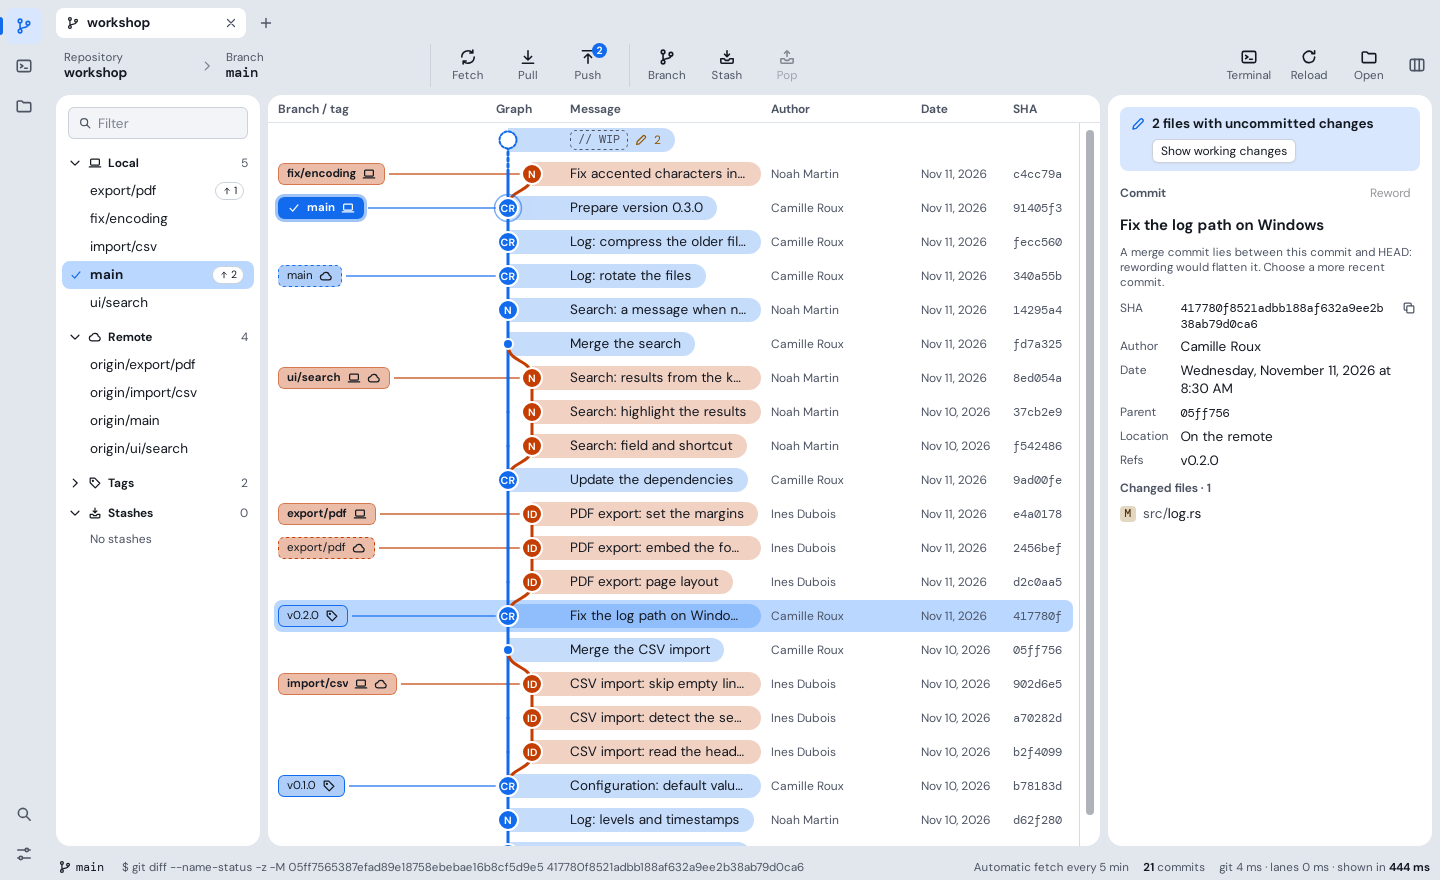
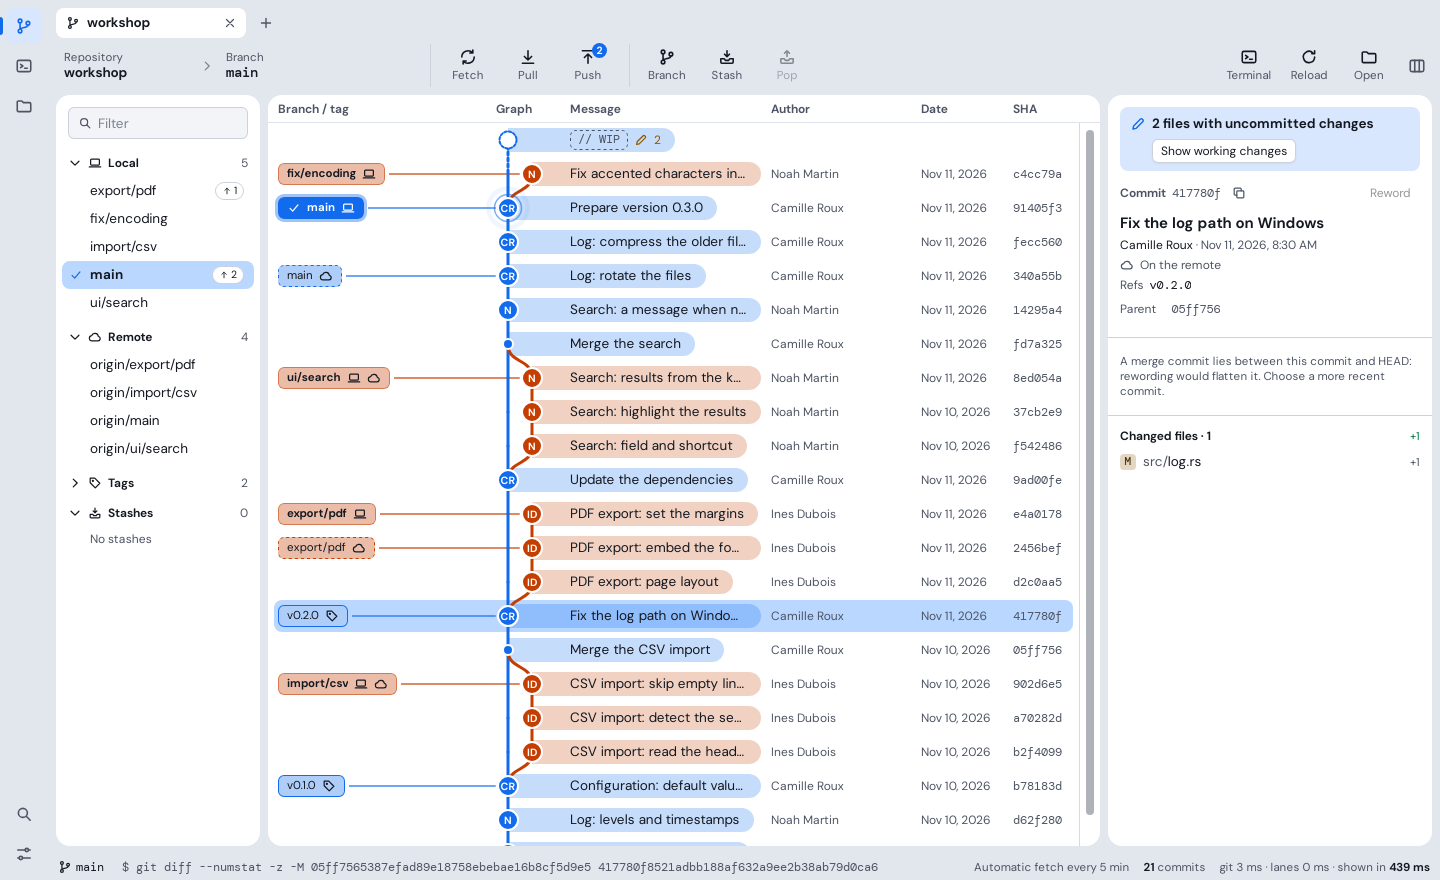
Commit detail: follow the design review
- The refs take a "Refs" label instead of the branch icon, which is
  that of the Git module and of the "Branch" action (7); they are cut
  on the right, the whole list in the tooltip (3.4).
- A line keeps its paragraph as written only when its list sign or
  "#" is followed by a space: a wrapped line that starts with
  "--amend" or "#182" is joined.
- The parents are standard small ghost buttons, and the first file row
  starts 6 px under its heading, on the scale (4.1).
- The guidelines say it: the token table (2.1) and the size table
  (3.2) name the panel, 9.25 follows the new head, and 9.27 defines the
  token of a trailer and describes the loading, the error and a commit
  with no files.
- The two screenshots of the guidelines are taken again (14).

Refs #206

Claude-Session: https://claude.ai/code/session_01Jie7WUbtr1YTCQH6uFfmAd

diff --git a/src/lib/git/CommitPanel.svelte b/src/lib/git/CommitPanel.svelte
@@ -238,7 +238,8 @@
       </p>
     {/if}
     {#if commit.refs.length}
-      <p class="fact"><Icon name="branch" size={14} /> <span class="mono refs">{commit.refs.map((r) => r.name).join(', ')}</span></p>
+      {@const refs = commit.refs.map((r) => r.name).join(', ')}
+      <p class="fact"><span>Refs</span> <span class="mono refs" title={refs}>{refs}</span></p>
     {/if}
     <p class="fact parents">
       {#if commit.parents.length}
@@ -379,22 +380,20 @@
   .fact :global(.icon) {
     flex: none;
   }
+  /* Cut on the right, the whole list in the tooltip (guidelines, 3.4). */
   .refs {
     min-width: 0;
     font-size: var(--fs-code);
-    overflow-wrap: anywhere;
+    overflow: hidden;
+    text-overflow: ellipsis;
+    white-space: nowrap;
   }
   .parents {
     flex-wrap: wrap;
-    gap: 2px;
+    gap: 2px 6px;
   }
-  /* A narrow ghost button: the short SHA stays close to "Parent" and to the next one. */
   .parent {
-    padding: 2px 4px;
     font-size: var(--fs-code);
-  }
-  .parents > span {
-    margin-right: 4px;
   }
   /* The description in --ink: the subject stands out by its size and weight (guidelines, 9.27). */
   .message {
@@ -468,10 +467,11 @@
   .copy:active {
     transform: scale(0.97);
   }
-  /* The rows reach 6 px past the text on each side: their names line up with the heading. */
+  /* The rows reach 6 px past the text on each side: their names line up with the heading. The
+     first row starts 6 px under the heading, the 4 px of the zone and 2 px (guidelines, 9.27). */
   .files {
     width: calc(100% + 12px);
-    margin: -1px -6px 0;
+    margin: 2px -6px 0;
   }
   .muted {
     color: var(--muted);

diff --git a/src/lib/git/message.ts b/src/lib/git/message.ts
@@ -18,8 +18,11 @@ export interface MessageView {
 
 /** A trailer: a token, a colon, a space, then a value. */
 const TRAILER = /^[A-Za-z][A-Za-z0-9-]*: \S/;
-/** A line that keeps its paragraph as written: indented, a list sign, a quote, a heading. */
-const KEEP = /^(\s|[-*•>#]|\d+[.)]\s)/;
+/**
+ * A line that keeps its paragraph as written: indented by a space or a tab, a list sign followed
+ * by a space ("- ", "* ", "• ", "1. ", "1) "), a quote (">"), a heading ("# ").
+ */
+const KEEP = /^([ \t]|[-*•]\s|\d+[.)]\s|>|#+\s)/;
 
 /** Reads the description of a commit: the message without its subject line. */
 export function readMessage(description: string): MessageView {

diff --git a/docs/design-guidelines.md b/docs/design-guidelines.md
@@ -110,7 +110,7 @@ component that hard-codes one.
 | `--panel` | Background of the cards and of the active tab. | `#ffffff` | `#181b21` |
 | `--bg` | Recessed background, inside a card: input fields. | `#f2f4f7` | `#101216` |
 | `--raised` | Background of buttons and of what floats: menus, dialogs, notifications. | `#ffffff` | `#20242c` |
-| `--line` | Border of buttons, fields and floating elements. | `#ccd1da` | `#343a46` |
+| `--line` | Border of buttons, fields and floating elements; separator inside a dialog, and between the zones of the detail panel of a commit (6, 9.27). | `#ccd1da` | `#343a46` |
 | `--line-soft` | Discreet separator inside a card. | `#dfe3ea` | `#262b34` |
 | `--ink` | Body text. | `#141820` | `#eceff4` |
 | `--muted` | Secondary text: captions, metadata, labels. | `#4d5463` | `#a4abb8` |
@@ -346,7 +346,7 @@ not change them: they hold for the four, which `npm run check` checks.
 |---|---|---|
 | `--fs-micro` | 10.5 px | Counters, badges, shortcut keys. |
 | `--fs-small` | 11.5 px | Captions, toolbar labels, status bar, graph labels, metadata. |
-| `--fs-label` | 12 px | Field labels, column headers, section titles, secondary columns of a list (author, date). |
+| `--fs-label` | 12 px | Field labels, column headers, section titles, secondary columns of a list (author, date), the facts of a commit in its detail panel (9.27). |
 | `--fs-body` | 13.5 px | Text, list rows, buttons, menus. |
 | `--fs-title` | 15 px | Title of a dialog, of a panel or of a section of the settings page, input of the command palette. |
 | `--fs-display` | 24 px | Start page only. |
@@ -2077,8 +2077,7 @@ Giving a commit a new message, without leaving it: the message is edited in plac
 panel, the files of the commit still in view. "Reword" is the word of git and of the interactive
 rebase (12).
 
-**Where it starts.** "Reword", a small ghost button at the right of the "Commit" label of the
-panel: ghost rather than the standard of the actions of a card (9.1), since it acts on the
+**Where it starts.** "Reword", a small ghost button at the right of the head of the panel (9.27): ghost rather than the standard of the actions of a card (9.1), since it acts on the
 message right under it and comes second to reading it, the lightest level that does the job; F2 on the selected commit of the graph, a key of the list as Enter is, which shows the
 detail panel if it is hidden (9.17); "Reword message" in the menu of a commit, without "…", since
 it opens no dialog (9.9), F2 recalled on its right; and "Reword message" in the palette, to which
@@ -2093,7 +2092,7 @@ the focus, the caret at the end of the first line. Under it, on one line, the co
 then "Cancel", a small standard button, and "Save message", a small main button, at the right, as
 in the panel of the changes: the order of a dialog, the main button last, and not that of a strip
 (9.1), since the form is a dialog opened in place. The form takes the whole width of the panel.
-The rest of the panel, the SHA, the author and the changed files, stays under the form and still
+The rest of the panel, the facts of the commit and the changed files, stays under the form and still
 works.
 
 - Enter is a new line. Ctrl + Enter saves, and the tooltip of "Save message" says so. Escape
@@ -2267,20 +2266,21 @@ at the right (9.25).
   short ("Nov 17, 2026, 4:47 PM"), the full date in the tooltip, tabular figures.
 - Then, 4 px apart, each on a line at 12 px in `--muted`: where the commit is, with its icon
   (7), the cloud and "On the remote", or the computer and "Local only, not pushed yet", when the
-  repository has a remote; the branches and tags on the commit, with the branch icon, their names
-  in the code font in `--ink`; "Parent" or "Parents", then each parent as a small ghost button
-  with its short SHA in the code font, which selects that commit in the graph. A first commit
-  says "No parent: first commit".
+  repository has a remote; "Refs", then the branches and tags on the commit, their names in the
+  code font in `--ink`, cut on the right with the whole list in the tooltip (3.4); "Parent" or
+  "Parents", then each parent as a small ghost button with its short SHA in the code font, which
+  selects that commit in the graph. A first commit says "No parent: first commit".
 
 **The message**, its own zone: the description in `--ink` at `--fs-body`. The hierarchy comes
 from the size and the weight of the subject, not from a grey.
 
 - The lines of a paragraph are joined to the width of the panel: git messages are cut at 72
   characters, and kept as they are, they alternate long and short lines in a narrow panel. A
-  paragraph is kept as written when one of its lines starts with a space, a list sign ("-", "*",
-  "•", "1."), ">" or "#". Paragraphs are 8 px apart.
-- The trailers of git, the last paragraph whose lines all read "Token: value" ("Co-Authored-By:
-  …", "Signed-off-by: …"), are set apart 12 px under the description, one per line, in
+  paragraph is kept as written when one of its lines starts with a space or a tab, a list sign
+  followed by a space ("- ", "* ", "• ", "1. ", "1) "), ">", or "#" followed by a space: a line
+  that starts with "--amend" or "#182" is joined. Paragraphs are 8 px apart.
+- The trailers of git, the last paragraph whose lines all read "Token: value", the token a word
+  of letters, digits and hyphens ("Co-Authored-By: …", "Signed-off-by: …"), are set apart 12 px under the description, one per line, in
   `--muted` at 11.5 px. They close a description: a paragraph alone stays one, since the body of
   a merge of GitHub, the title of the pull request, often reads "Area: what changes". "Closes
   #182." is not a trailer either: it stays in the description.
@@ -2290,11 +2290,15 @@ from the size and the weight of the subject, not from a grey.
 **The files**, the last zone: one heading line, "Changed files · 14" at 12 px, `--fw-strong`,
 `--ink`, never cut, and at the right the totals of the commit, "+320" in `--ok` and "−41" in
 `--bad`, tabular figures. For a merge, "(against the first parent)" goes on a line of its own
-under it, in `--muted` at 11.5 px. Then the list, 6 px under it, each file with its counts of
-lines (9.6).
+under it, in `--muted` at 11.5 px. Then the list, its first row 6 px under the heading, each file
+with its counts of lines (9.6).
 
-**Between the zones**, a `--line` line the whole width of the card, 16 px under a zone and 12 px
-above the next (6). A commit with no description, no trailer and nothing that keeps it from
+- While git lists the files, three ghost lines stand in their place. The description comes with
+  the files, so the message zone shows then. A failure says so in `--bad` in place of the files,
+  and a commit that changes no file says "This commit changes no files."
+
+**Between the zones**, a `--line` line the whole width of the card, its scrollbar apart, 16 px
+under a zone and 12 px above the next (6). A commit with no description, no trailer and nothing that keeps it from
 being reworded has no message zone, and so one line less.
 
 - While the message is edited (9.25), the form takes the place of the subject and the message,
